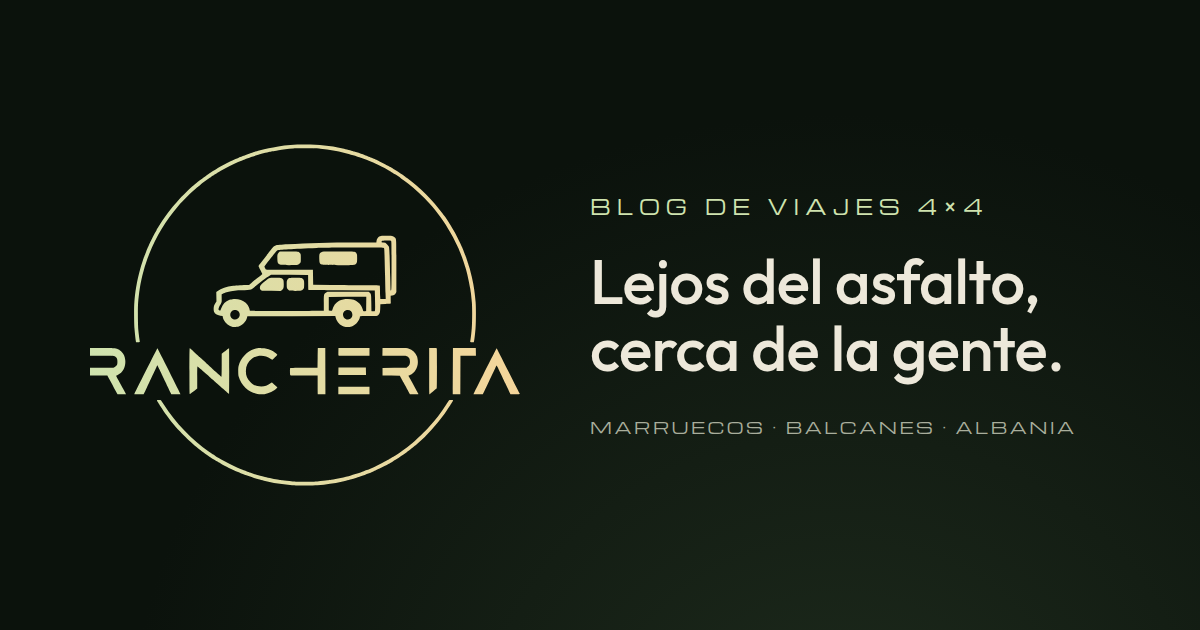
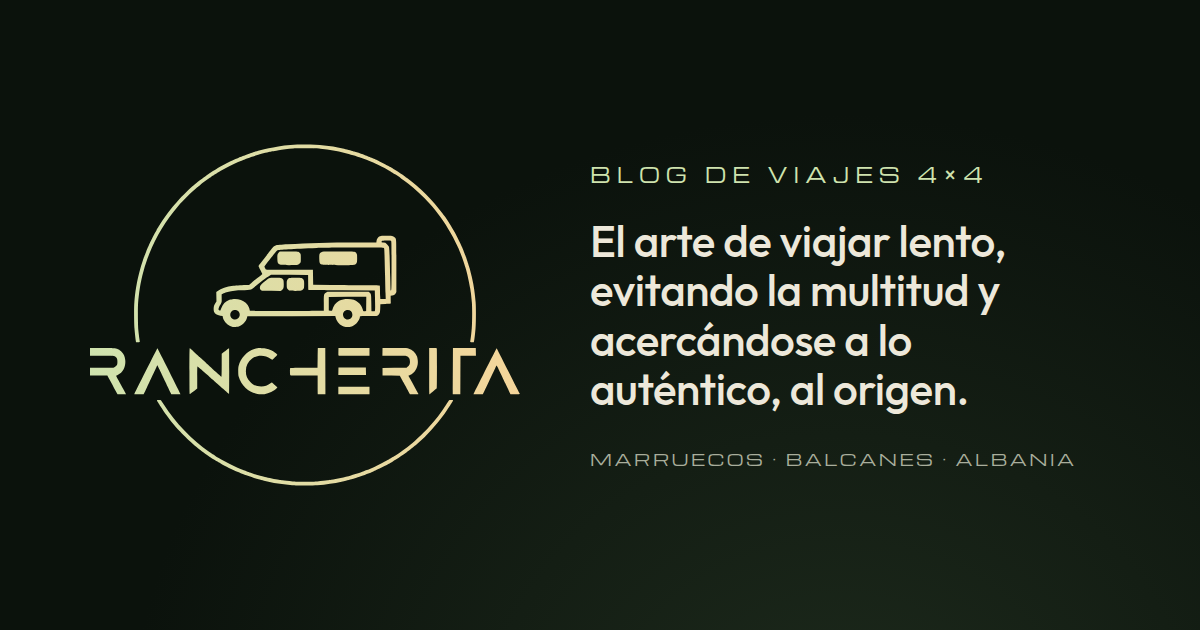
Nuevo lema: «El arte de viajar lento, evitando la multitud y acercándose a lo auténtico, al origen»
- Titular de la portada (con un tamaño algo menor para la frase larga).
- Lema del sitio (pie de página), muestra del kit de marca e imagen para
  redes regenerada con `npm run brand`.

Claude-Session: https://claude.ai/code/session_01QCismZakW1ywgf9XDqyBE6

Changed region(s): [[0.4933, 0.2714, 0.8942, 0.6937], [0.4933, 0.7238, 0.8942, 0.754]]

diff --git a/src/config.ts b/src/config.ts
@@ -2,7 +2,7 @@
 // los enlaces vacíos no se muestran.
 export const SITE = {
   title: 'Rancherita',
-  tagline: 'Lejos del asfalto, cerca de la gente.',
+  tagline: 'El arte de viajar lento, evitando la multitud y acercándose a lo auténtico, al origen.',
   description:
     'Blog de viajes de Rancherita, nuestra Toyota Hilux 4×4 con cabina Tischer. Pistas, naturaleza y encuentros con la gente del lugar: Marruecos, los Balcanes y Albania, Normandía, Bretaña, Suiza y Córcega.',
   lang: 'es',
